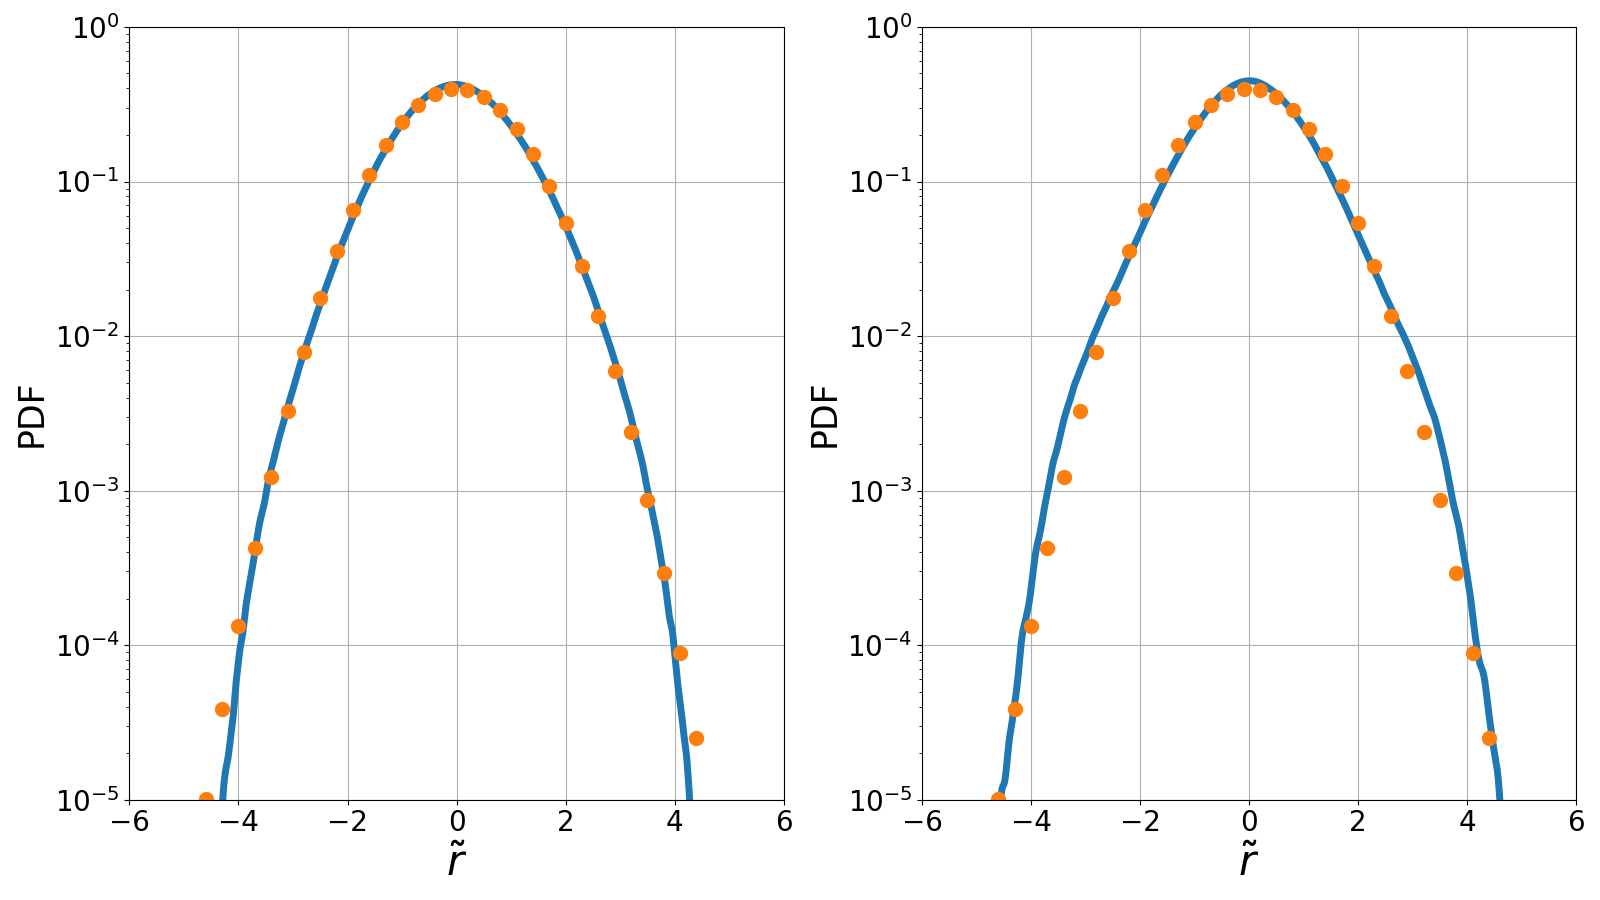
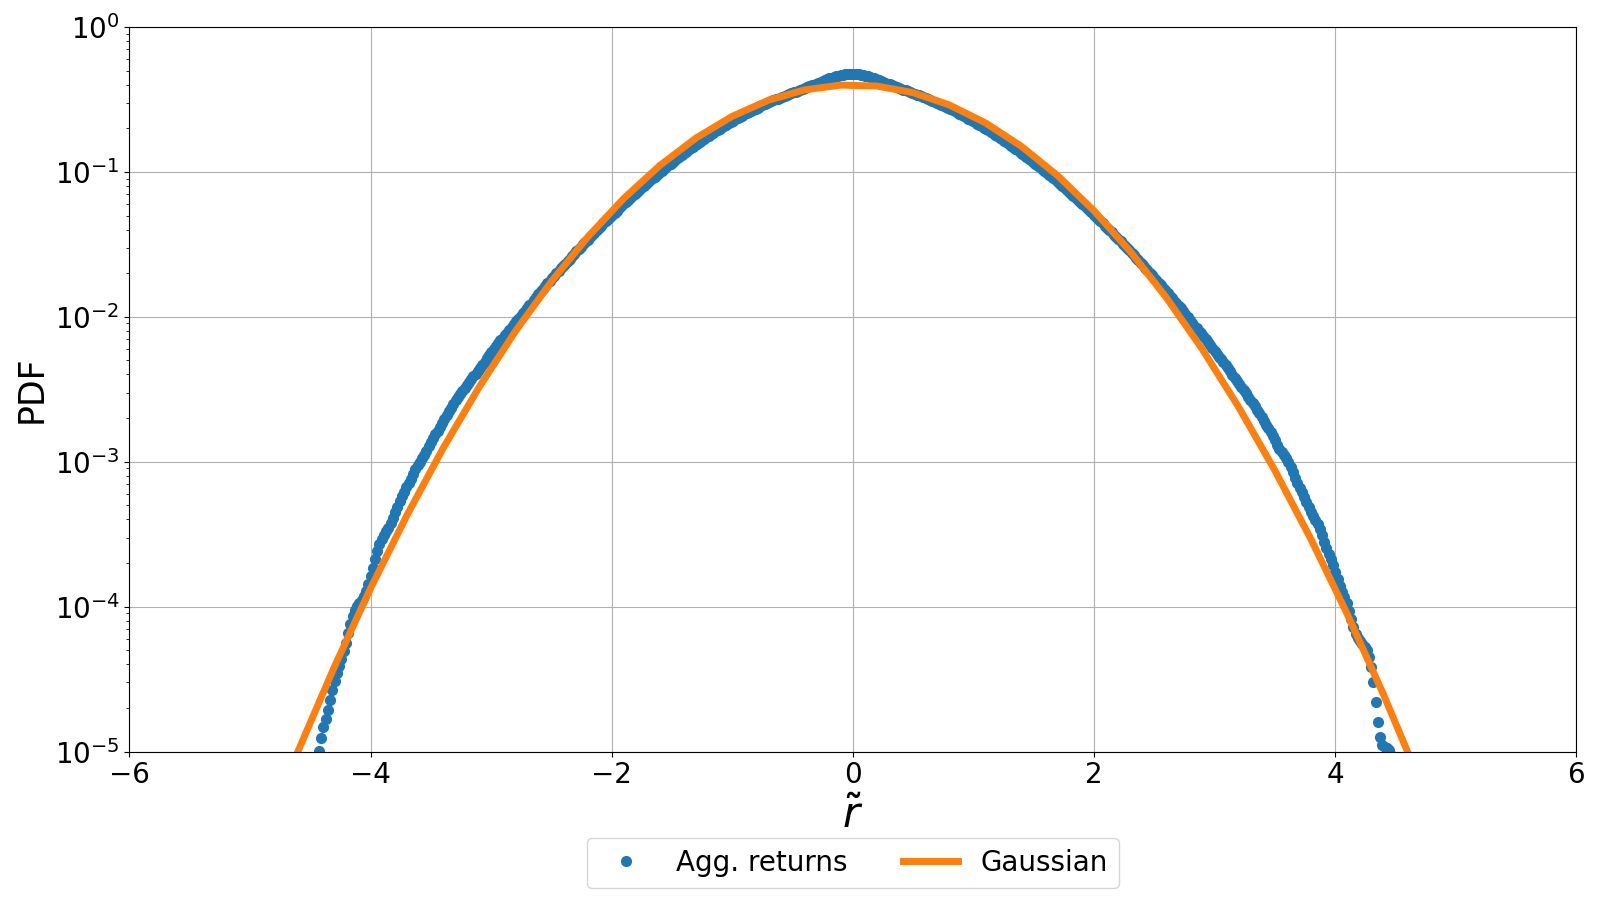
Change to one plot of agg. returns and gaussian

diff --git a/paper/algorithms/03_agg_returns_epoch.py b/paper/algorithms/03_agg_returns_epoch.py
@@ -5,14 +5,15 @@ Plots the figures of the aggregated returns epochs for the paper.
 This script requires the following modules:
     * gc
     * pickle
+    * sys
     * typing
     * matplotlib
     * numpy
     * pandas
-    * exact_distributions_covariance_tools
+    * epochs_tools
 
 The module contains the following functions:
-    * ln_aggregated_dist_returns_market_plot - plots the aggregated
+    * epochs_aggregated_dist_returns_market_plot - plots the aggregated
       distribution of returns for a market.
     * main - the main function of the script.
 
@@ -31,83 +32,67 @@ from matplotlib import pyplot as plt  # type: ignore
 import numpy as np  # type: ignore
 import pandas as pd  # type: ignore
 
-sys.path.insert(1, '../../project/local_normalization')
-import local_normalization_tools  # type: ignore
+sys.path.insert(1, '../../project/epochs')
+import epochs_tools  # type: ignore
 
 # ----------------------------------------------------------------------------
 
 
-def ln_aggregated_dist_returns_market_plot(dates: List[List[str]],
-                                           time_step: str,
-                                           window: str) -> None:
+def epochs_aggregated_dist_returns_market_plot(dates: List[str],
+                                               time_step: str,
+                                               window: str,
+                                               K_value: str) -> None:
     """Plots the aggregated distribution of returns for a market.
 
     :param dates: List of the interval of dates to be analyzed
      (i.e. [['1992-01', '2012-12'], ['2012-01', '2020-12']).
     :param time_step: time step of the data (i.e. '1m', '2m', '5m', ...).
     :param window: window time to compute the volatility (i.e. '60', ...).
+    :param K_value: number of companies to be used (i.e. '80', 'all').
     :return: None -- The function saves the plot in a file and does not return
      a value.
     """
 
     try:
 
-        figure, (ax1, ax2) = plt.subplots(1, 2, figsize=(16, 9))
-        ax1.get_shared_y_axes().join(ax2)
+        figure = plt.figure(figsize=(16, 9))
 
         # Load data
-        agg_1: pd.Series = pickle.load(open(
-            '../../project/data/local_normalization/ln_aggregated_dist_returns'
-            + f'_market_data_{dates[0][0]}_{dates[0][1]}_step_{time_step}_win'
-            + f'_{window}.pickle', 'rb'))
-        agg_2: pd.Series = pickle.load(open(
-            '../../project/data/local_normalization/ln_aggregated_dist_returns'
-            + f'_market_data_{dates[1][0]}_{dates[1][1]}_step_{time_step}_win'
-            + f'_{window}.pickle', 'rb'))
+        agg: pd.Series = pickle.load(open(
+            '../../project/data/epochs/epochs_aggregated_dist_returns'
+            + f'_market_data_{dates[0]}_{dates[1]}_step_{time_step}_win'
+            + f'_{window}_K_{K_value}.pickle', 'rb'))
 
-        agg_1 = agg_1.rename('Agg. returns')
-        agg_2 = agg_2.rename('Agg. returns')
+        agg = agg.rename('Agg. returns')
 
         x_gauss: np.ndarray = np.arange(-10, 10, 0.3)
-        gaussian: np.ndarray = local_normalization_tools \
+        gaussian: np.ndarray = epochs_tools \
             .gaussian_distribution(0, 1, x_gauss)
 
         # Log plot
-        plot_1 = agg_1.plot(kind='density', style='-', logy=True, ax=ax1,
-                            legend=False, lw=5)
-        plot_2 = agg_2.plot(kind='density', style='-', logy=True, ax=ax2,
-                            legend=False, lw=5)
+        plot = agg.plot(kind='density', style='o', logy=True, legend=False,
+                        ms=7)
 
-        ax1.semilogy(x_gauss, gaussian, 'o', ms=10, label='Gaussian')
-        ax2.semilogy(x_gauss, gaussian, 'o', ms=10, label='Gaussian')
+        plt.semilogy(x_gauss, gaussian, '-', lw=5, label='Gaussian')
 
-        ax1.set_xlabel(r'$\tilde{r}$', fontsize=30)
-        ax1.set_ylabel('PDF', fontsize=25)
-        ax1.tick_params(axis='both', labelsize=20)
-        ax1.set_xlim(-6, 6)
-        ax1.set_ylim(10 ** -5, 1)
-        ax1.grid(True)
-
-        # ax2.legend(loc='upper center', bbox_to_anchor=(0.5, -0.09), ncol=2,
-        #        fontsize=20)
-        ax2.set_xlabel(r'$\tilde{r}$', fontsize=30)
-        ax2.set_ylabel('PDF', fontsize=25)
-        ax2.tick_params(axis='both', labelsize=20)
-        ax2.set_xlim(-6, 6)
-        ax2.set_ylim(10 ** -5, 1)
-        ax2.grid(True)
-
+        plt.legend(loc='upper center', bbox_to_anchor=(0.5, -0.1), ncol=2,
+                   fontsize=20)
+        plt.xlabel(r'$\tilde{r}$', fontsize=30)
+        plt.ylabel('PDF', fontsize=25)
+        plt.xticks(fontsize=20)
+        plt.yticks(fontsize=20)
+        plt.xlim(-6, 6)
+        plt.ylim(10 ** -5, 1)
+        plt.grid(True)
         plt.tight_layout()
 
         # Save plot
         figure.savefig(f'../plot/03_agg_returns_epoch.png')
 
         plt.close()
-        del agg_1
-        del agg_2
+        del agg
         del figure
-        del plot_1
-        del plot_2
+        del plot
         gc.collect()
 
     except FileNotFoundError as error:
@@ -126,9 +111,8 @@ def main() -> None:
     :return: None.
     """
 
-    ln_aggregated_dist_returns_market_plot([['1992-01', '2012-12'],
-                                            ['2012-01', '2020-12']],
-                                           '1d', '25')
+    epochs_aggregated_dist_returns_market_plot(['1990-01-01', '2020-12-31'],
+                                              '1d', '25', '50')
 
 # -----------------------------------------------------------------------------
 
